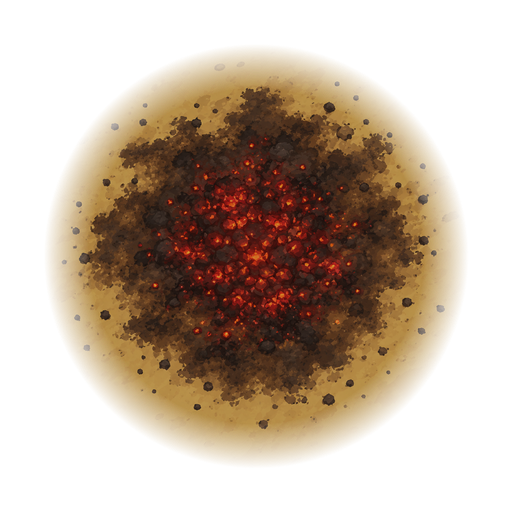
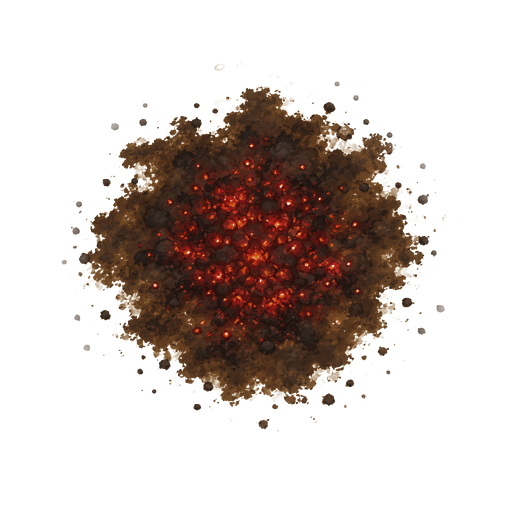
陨石坑叠加修复：沙环抠除 + 双层渲染 + 叠加衰减
现象：大招七星落点重合时，贴片同色沙环盖住邻坑炭体，出现黄弧/空心花瓣拼布
- crater_mark 重做：亮度+色比双判抠除与路面同色沙环（炭火亮斑按 r/g>1.85 保留），叠加只会炭压炭加深
- 坑拆 fireCraterMark(下)/fireCraterGlow(上) 两图层：先铺全部焦痕再叠全部余烬，跨坑不再互相盖
- 余烬 alpha 按近邻数 1/sqrt(k) 衰减：七星重合中心不烧成实心红饼
- fire-vfx-smoke 同步新节点结构（r.mark.node.active 计数）

Changed region(s): [[0.0938, 0.0938, 0.9062, 0.9062]]

diff --git a/KingdomWatch/assets/scripts/battle/FireVFX.ts b/KingdomWatch/assets/scripts/battle/FireVFX.ts
@@ -6,7 +6,7 @@ import { Color, EffectAsset, JsonAsset, Layers, Material, Node, Rect, resources,
 interface Part { node: Node; sprite: Sprite; frame: string; }
 interface Fragment { part: Part; vx: number; vy: number; spin: number; }
 interface Flight { root: Node; body: Part; tail: Part; }
-interface Residue { root: Node; mark: Part; glow: Part; }
+interface Residue { mark: Part; glow: Part; }
 interface Clip { part: Part; age: number; scale: number; }
 interface Burst {
   root: Node; ground: Node; core: Part; flames: Part[]; smoke: Part[]; dust: Part; scorch: Part;
@@ -55,12 +55,15 @@ export class FireVFX {
   constructor(parent: Node, groundParent: Node, projectileParent: Node) {
     this.root = this.node('fireVfx', parent);
     this.groundRoot = this.node('fireGround', groundParent);
+    // 坑分两层：焦痕垫底、余烬叠顶。同层兄弟按序渲染，跨坑时先铺全部焦痕再叠全部余烬。
+    const markLayer = this.node('fireCraterMark', this.groundRoot);
+    const glowLayer = this.node('fireCraterGlow', this.groundRoot);
     for (let i = 0; i < CAP; i++) this.free.push(this.create());
     for (let i = 0; i < RESIDUE_CAP; i++) {
-      const root = this.node('fireResidue', this.groundRoot);
-      const mark = this.part('craterMark', root);
-      const glow = this.part('craterGlow', root);
-      root.active = false; this.residues.push({ root, mark, glow });
+      const mark = this.part('craterMark' + i, markLayer);
+      const glow = this.part('craterGlow' + i, glowLayer);
+      mark.node.active = false; glow.node.active = false;
+      this.residues.push({ mark, glow });
     }
     for (let i = 0; i < FLIGHT_CAP; i++) {
       const root = this.node('fireFlight', projectileParent);
@@ -152,23 +155,30 @@ export class FireVFX {
   /** Read-only view of the hero's existing four-second burn areas. */
   craters(areas: readonly { x: number; y: number; t: number }[], radius: number, clock: number): boolean {
     if (!this.loaded) return false;
-    for (let i = 0; i < this.residues.length; i++) {
-      const residue = this.residues[i], c = areas[areas.length - 1 - i];
-      residue.root.active = !!c;
-      if (!c) continue;
-      residue.root.setPosition(c.x, c.y - 6, 0);
+    const slots = this.residues;
+    const n = Math.min(slots.length, areas.length);
+    for (let i = n; i < slots.length; i++) { slots[i].mark.node.active = false; slots[i].glow.node.active = false; }
+    // 所有坑共用 mark 层与 glow 层：先铺全部焦痕、再叠全部余烬，跨坑不再互相盖。
+    for (let i = 0; i < n; i++) {
+      const c = areas[areas.length - 1 - i];
       const seed = Math.sin(c.x * 0.017 + c.y * 0.013);
       const fade = Math.min(1, c.t / 0.8, clamp((4 - c.t) / 0.08));
+      let k = 0;
+      for (let j = 0; j < areas.length; j++) {
+        if (Math.hypot(areas[j].x - c.x, areas[j].y - c.y) < radius) k++;
+      }
+      const atten = 1 / Math.sqrt(Math.max(1, k));   // 近邻越多越衰减，叠点不烧成实心红饼
       if (this.craterLoaded) {
-        // 王国保卫战式焦痕：地面炭斑贴片 + 余烬呼吸光（约 2s 一息），无火苗。
-        // 余烬贴图带 70 亮度门槛：暗斑点透明、亮炭芯脉动，保证焦炭为主体。
-        const angle = seed * 7;
-        this.drawFrame(residue.mark, 'mark', radius * 2.45, 255 * fade, 0, 0, angle, 1, this.craterFrames);
-        const pulse = 0.5 + 0.5 * Math.sin(clock * Math.PI * 1.05 + seed * 2.1);
-        this.drawFrame(residue.glow, 'embers', radius * 2.3, (110 + 145 * pulse) * fade, 0, 0, angle, 1, this.craterFrames);
+        // 沙环已从贴片抠除：叠加只会炭压炭加深，不会出现盖沙拼布。
+        this.drawFrame(slots[i].mark, 'mark', radius * 2.45, 255 * fade, c.x, c.y - 6, seed * 7, 1, this.craterFrames);
       } else {
-        // 贴片未就绪时退回引擎炭印。
-        this.draw(residue.mark, 'scorch', radius * 2.55, 118 * fade, 0, 0, seed * 7, 1.5);
+        this.draw(slots[i].mark, 'scorch', radius * 2.55, 118 * fade * atten, c.x, c.y - 6, seed * 7, 1.5);
+      }
+      if (this.craterLoaded) {
+        const pulse = 0.5 + 0.5 * Math.sin(clock * Math.PI * 1.05 + seed * 2.1);
+        this.drawFrame(slots[i].glow, 'embers', radius * 2.3, (110 + 145 * pulse) * fade * atten, c.x, c.y - 6, seed * 7, 1, this.craterFrames);
+      } else {
+        slots[i].glow.node.active = false;
       }
     }
     return true;
